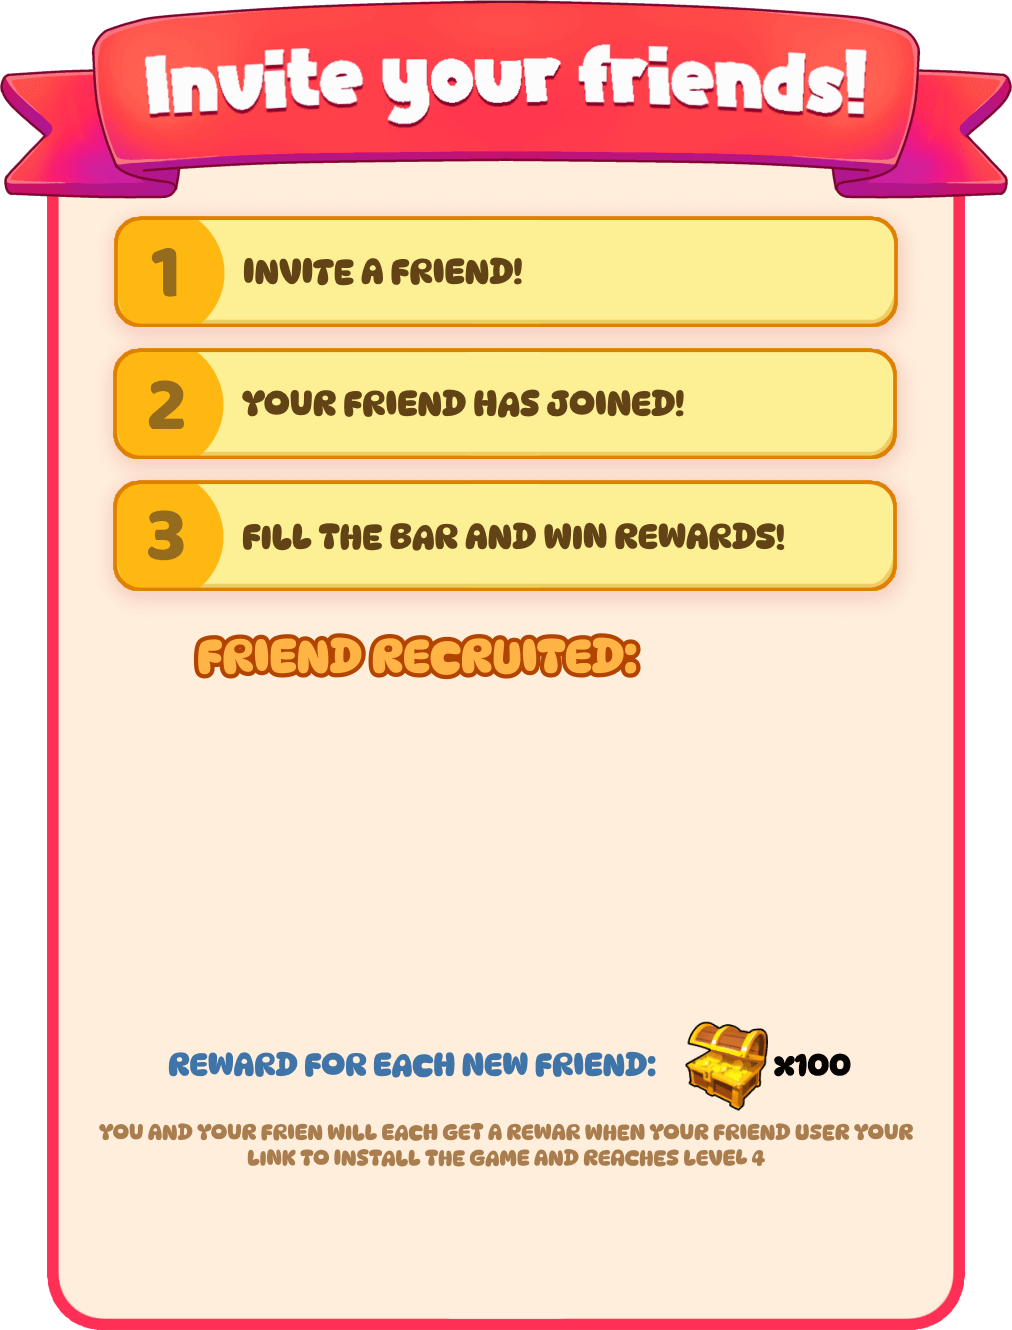
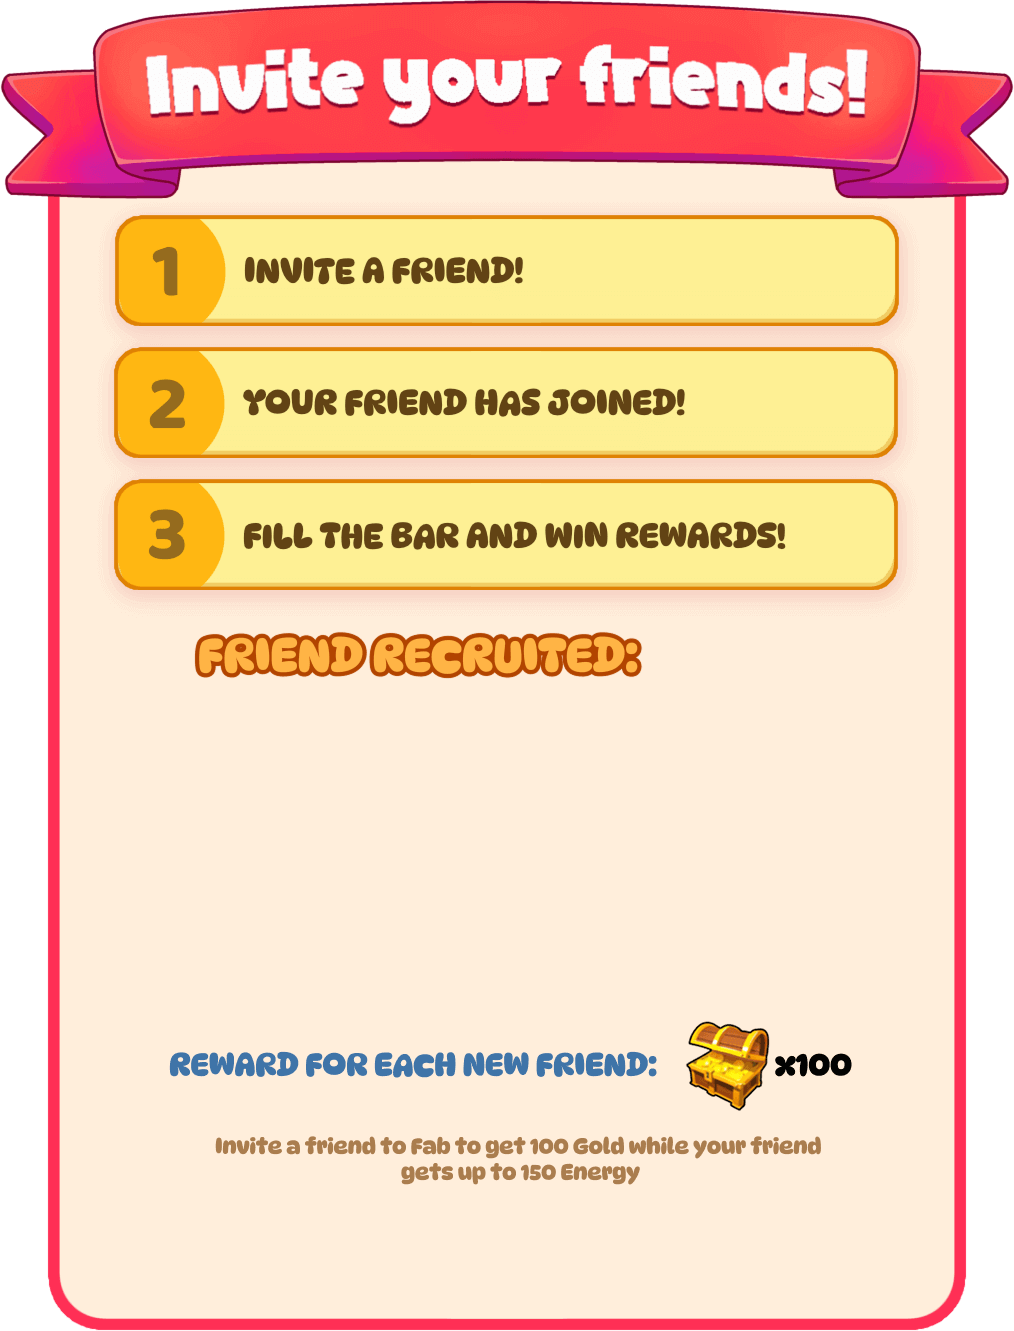
SMK-167 fix UI issues

diff --git a/src/pages/game/daily/index.vue b/src/pages/game/daily/index.vue
@@ -44,6 +44,8 @@ const currentStreak = ref(0);
 // const lastClaimedAt = ref(null);
 const streakRewards = ref([]);
 
+let checkTask = null;
+
 const fontSizeBase = computed(() => gameStore.baseFontSize);
 
 const currentIndex = computed(() => {
@@ -93,17 +95,10 @@ onMounted(async () => {
   emitter.on("onClaimeDailySuccess", () => getDaily());
 
   document.addEventListener("visibilitychange", async () => {
+    console.log("currentTask.value", currentTask.value);
     if (document.visibilityState === "visible") {
       if (currentTask.value && Object.keys(currentTask.value).length) {
-        // await delay(5000);
-
-        // await nextTick();
-
         await getSeftTasks();
-
-        // await nextTick();
-
-        // gameStore.handleRewards([...currentTask.value.reward], "task");
 
         currentTask.value = null;
       }
@@ -177,14 +172,19 @@ const doTask = async (task) => {
         currentTask.value = task;
 
         if (openTelegramLink.isAvailable()) {
-          openTelegramLink(task.target);
+          openTelegramLink(`https://t.me/${task.target}`);
         } else {
-          window.open(task.target, "_blank");
+          window.open(`https://t.me/${task.target}`, "_blank");
         }
 
-        // await getSeftTasks();
+        // if (window.Telegram?.WebApp) {
+        //   window.Telegram.WebApp.openTelegramLink(
+        //     `https://t.me/${task.target}`
+        //   );
+        // } else {
+        //   window.open(`https://t.me/${task.target}`, "_blank");
+        // }
 
-        // gameStore.handleRewards([task.reward], "task");
         break;
       }
       case TASK_TYPES.LINK: {
@@ -200,6 +200,14 @@ const doTask = async (task) => {
         } else {
           window.open(task.target, "_blank");
         }
+
+        // if (window.Telegram?.WebApp) {
+        //   window.Telegram.WebApp.openLink(task.target, {
+        //     try_instant_view: true,
+        //   });
+        // } else {
+        //   window.open(`https://t.me/${task.target}`, "_blank");
+        // }
 
         await completeTask(task._id);
 
@@ -217,21 +225,6 @@ const doTask = async (task) => {
   } catch (error) {
     console.error(error);
   }
-};
-
-const submitNetwork = ($event) => {
-  console.log("submitNetwork");
-  handleNormalClickAnimation($event);
-};
-
-const submitFriend = ($event) => {
-  console.log("submitFriend");
-  handleNormalClickAnimation($event);
-};
-
-const submitFab = ($event) => {
-  console.log("submitFab");
-  handleNormalClickAnimation($event);
 };
 
 const handleDailyCheckIn = ($event, level) => {

diff --git a/src/pages/game/referral/index.vue b/src/pages/game/referral/index.vue
@@ -31,14 +31,14 @@ const specialLevels = [
   { count: 2, image: invitedReward2 },
   { count: 3, image: invitedReward3 },
   { count: 10, image: invitedReward4 },
-  { count: 50, image: invitedReward5 },
-  { count: 100, image: invitedReward6 },
-  { count: 200, image: invitedReward7 },
-  { count: 500, image: invitedReward8 },
-  { count: 1000, image: invitedReward9 },
-  { count: 2000, image: invitedReward10 },
-  { count: 5000, image: invitedReward11 },
-  { count: 10000, image: invitedReward12 },
+  { count: 20, image: invitedReward5 },
+  { count: 50, image: invitedReward6 },
+  { count: 100, image: invitedReward7 },
+  { count: 200, image: invitedReward8 },
+  { count: 500, image: invitedReward9 },
+  { count: 1000, image: invitedReward10 },
+  { count: 2000, image: invitedReward11 },
+  { count: 3000, image: invitedReward12 },
 ];
 
 const gameStore = useGameStore();

diff --git a/index.html b/index.html
@@ -2,11 +2,10 @@
 <html lang="en">
   <head>
     <meta charset="UTF-8" />
-    <link rel="icon" type="image/jpg" href="/favicon.jpg" />
+    <link rel="icon" type="image/jpg" href="/justfab.jpg" />
     <meta name="viewport" content="width=device-width, initial-scale=1.0, maximum-scale=1.0, user-scalable=no">
     <title>JUSTFAB</title>
     <link rel="stylesheet" type="text/css" href="/loader.css" />
-    <!-- <script src="https://telegram.org/js/telegram-web-app.js?56"></script> -->
 
   </head>
   <body>
@@ -44,6 +43,7 @@
         </div>
       </div>
     </div>
+    <!-- <script src="https://telegram.org/js/telegram-web-app.js"></script> -->
     <script type="module" src="/src/main.js"></script> 
   </body>
 </html>

diff --git a/src/components/Dialog/SettingDialog.vue b/src/components/Dialog/SettingDialog.vue
@@ -103,7 +103,7 @@ defineExpose({ openDialog, settingGameDialog, closeDialog });
                   overflow="hidden"
                   width="100%"
                 >
-                  Volume Music
+                  Music Volume
                 </text>
               </svg>
             </div>
@@ -181,7 +181,7 @@ defineExpose({ openDialog, settingGameDialog, closeDialog });
                   overflow="hidden"
                   width="100%"
                 >
-                  Volume SFX
+                  SFX Volume
                 </text>
               </svg>
             </div>

diff --git a/src/pages/game/menu/index.vue b/src/pages/game/menu/index.vue
@@ -51,7 +51,7 @@ const submitOpenSettingDialog = () => {
     >
       <div class="menu tw-col-span-1 tw-row-span-2">
         <router-link class="menu-link" :to="{ path: '/game/referral' }">
-          {{ $t("Invite Fab") }}
+          {{ $t("Invite to Fab") }}
         </router-link>
       </div>
 
@@ -90,7 +90,7 @@ const submitOpenSettingDialog = () => {
 
       <div class="menu tw-col-span-1 tw-row-span-1">
         <div class="menu-link" @click="submitOpenSettingDialog">
-          {{ $t("Setting") }}
+          {{ $t("Settings") }}
         </div>
       </div>
     </div>

diff --git a/src/layouts/game.vue b/src/layouts/game.vue
@@ -69,7 +69,7 @@ onMounted(() => {
 
 onUnmounted(() => {
   // stopClaiming();
-  document.removeEventListener("visibilitychange", stopClaiming);
+  // document.removeEventListener("visibilitychange", stopClaiming);
 });
 
 // const executeClaimRewards = async () => {

diff --git a/src/plugins/2.pinia/modules/game.js b/src/plugins/2.pinia/modules/game.js
@@ -47,7 +47,6 @@ export const useGameStore = defineStore("game", () => {
     for (const reward of rewards) {
       switch (reward.type) {
         case REWARD_TYPES.JACKPOT:
-
         case REWARD_TYPES.FOOD:
         case REWARD_TYPES.SPIN:
           break;
